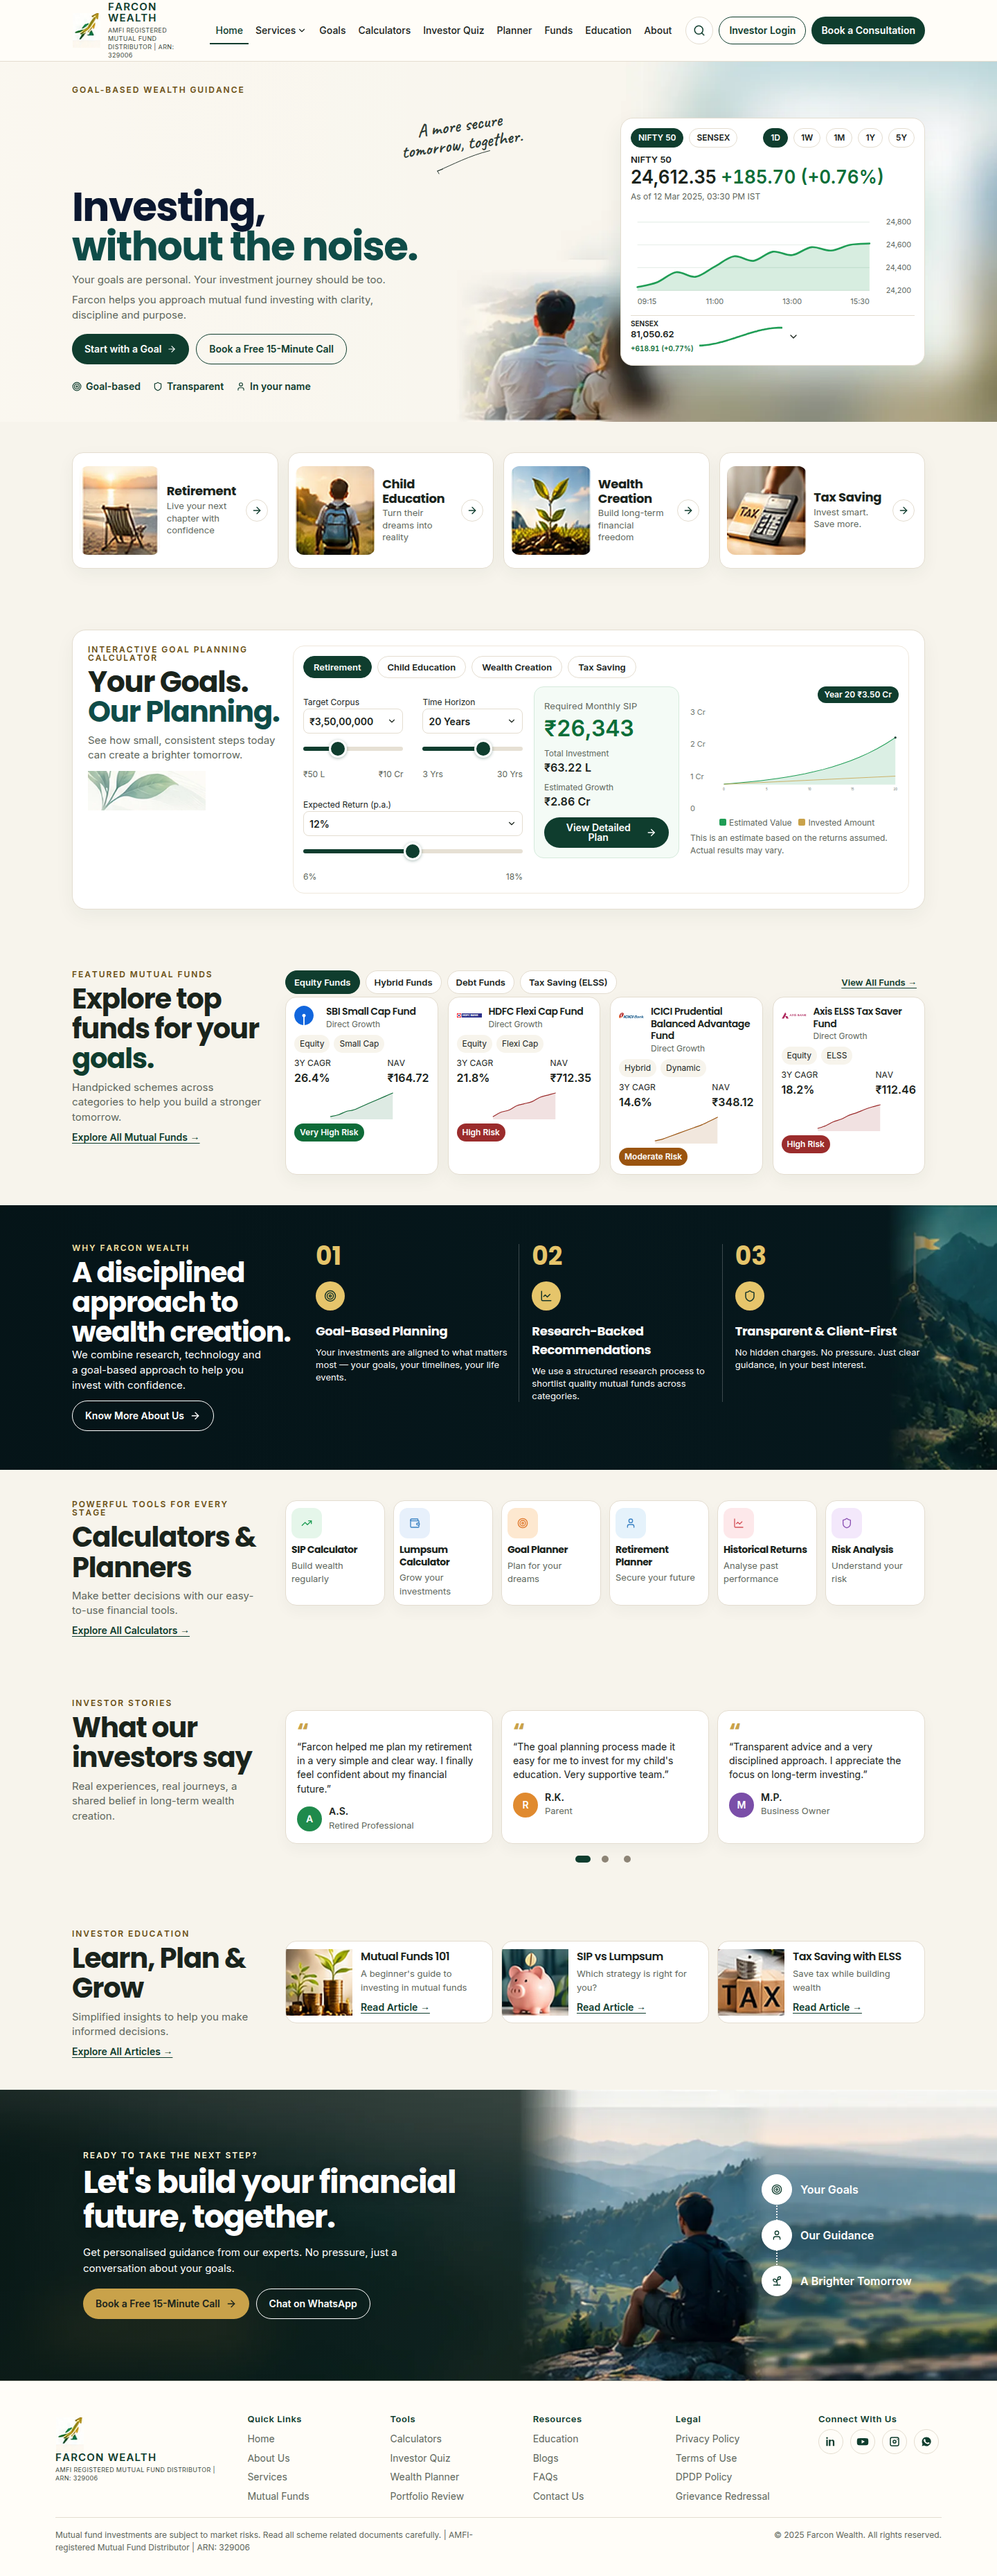
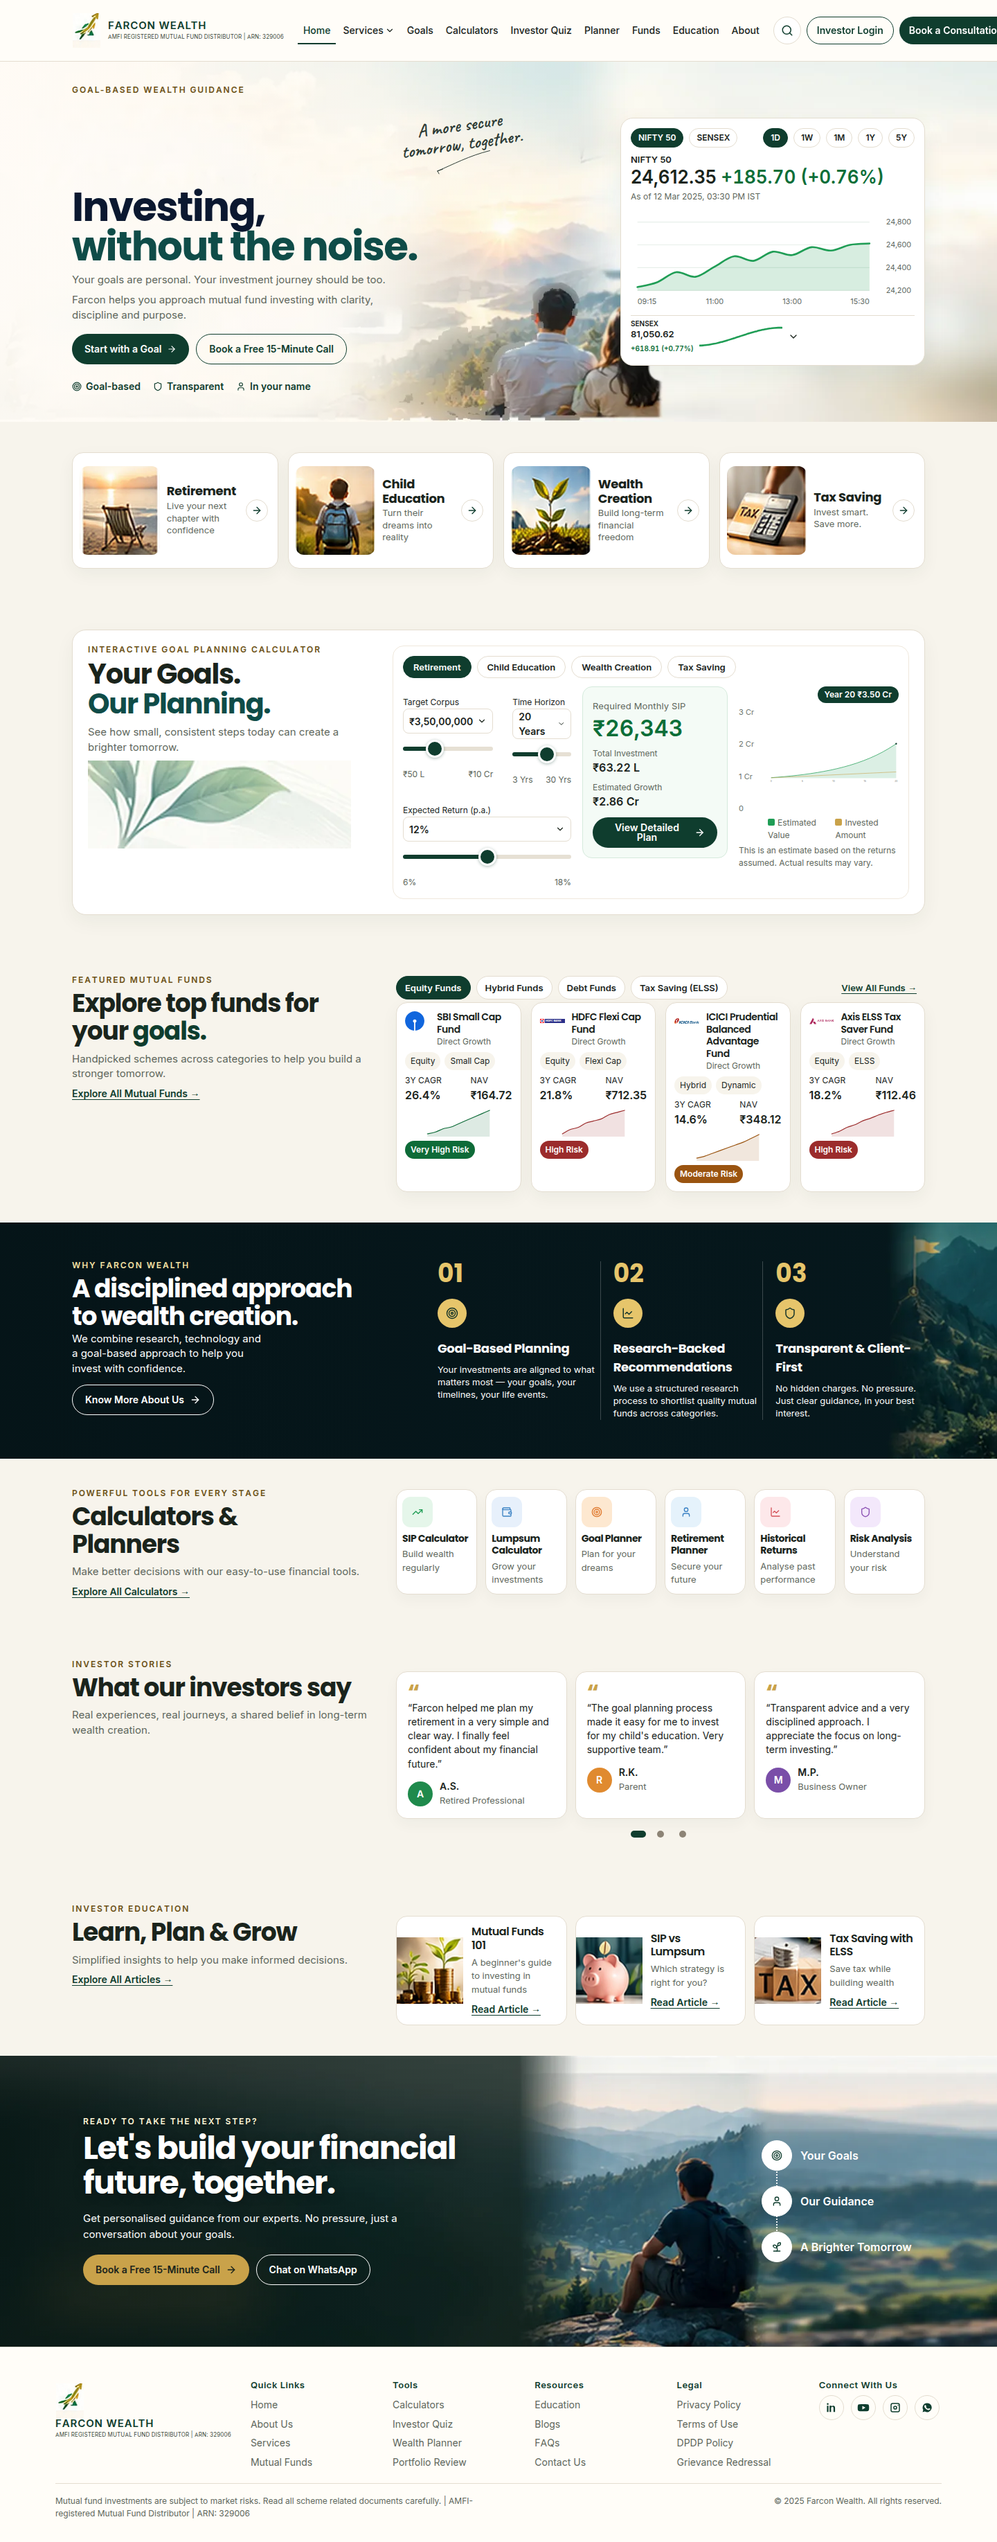
Restore a full-bleed hero and tighten mobile layout.
The mountain photograph now sits behind the headline, section titles wrap to two lines, and smaller screens use a compact menu with swipeable cards.

diff --git a/src/farcon.css b/src/farcon.css
@@ -31,22 +31,24 @@
   display: block;
   font-family: var(--fw-sans);
   font-weight: 700;
-  letter-spacing: 0.08em;
+  letter-spacing: 0.06em;
   font-size: 14px;
   line-height: 1.1;
+  white-space: nowrap;
 }
 .fw-lockup small {
   display: block;
   margin-top: 3px;
   font-size: 8px;
-  letter-spacing: 0.04em;
-  line-height: 1.35;
-  max-width: 280px;
+  letter-spacing: 0.02em;
+  line-height: 1.2;
+  max-width: none;
+  white-space: nowrap;
   text-transform: uppercase;
 }
 .fw-lockup.is-footer img { width: 68px; height: 82px; }
-.fw-lockup.is-footer strong { font-size: 16px; }
-.fw-lockup.is-footer small { font-size: 12px; max-width: 260px; }
+.fw-lockup.is-footer strong { font-size: 16px; white-space: normal; }
+.fw-lockup.is-footer small { font-size: 12px; max-width: 260px; white-space: normal; }
 .fw-header {
   position: sticky;
   top: 0;
@@ -265,11 +267,11 @@
 .hf-hero { position: relative; overflow: hidden; }
 .hf-hero-photo {
   position: absolute; inset: 0; width: 100%; height: 100%;
-  object-fit: cover; object-position: 64% 40%;
+  object-fit: cover; object-position: 58% 58%;
 }
 .hf-hero-scrim {
   position: absolute; inset: 0;
-  background: linear-gradient(180deg, rgba(247,244,236,0.2) 0%, rgba(247,244,236,0.78) 38%, #f7f4ec 72%);
+  background: linear-gradient(90deg, rgba(255,251,246,0.9) 0%, rgba(255,248,238,0.55) 34%, rgba(255,244,226,0.12) 58%, transparent 72%);
 }
 .hf-hero-inner {
   position: relative;
@@ -853,7 +855,7 @@ html, body { overflow-x: clip; }
   .is-home .fw-header-bar { height: 88px; padding: 0 24px; }
   .is-home .fw-lockup img { width: 42px; height: 50px; }
   .is-home .fw-lockup strong { font-size: 15px; }
-  .is-home .fw-lockup small { font-size: 9px; max-width: 280px; }
+  .is-home .fw-lockup small { font-size: 8px; max-width: none; white-space: nowrap; }
   .is-home .fw-nav button { font-size: 14px; padding: 0 8px; min-height: 40px; }
   .is-home .fw-login, .is-home .fw-book { height: 40px; min-height: 40px; font-size: 14px; padding: 0 14px; white-space: nowrap; }
   .is-home .fw-icon-btn { width: 40px; height: 40px; min-width: 40px; min-height: 40px; }
@@ -867,10 +869,10 @@ html, body { overflow-x: clip; }
   .is-home .hf-eye { font-size: 12px; letter-spacing: 0.16em; margin-bottom: 8px; }
   .is-home .hf-btn { min-height: 44px; padding: 0 18px; font-size: 14px; }
   .is-home .hf-lede { font-size: 15px; line-height: 1.45; max-width: 460px; margin: 8px 0 0; }
-  .is-home .hf-split { grid-template-columns: 280px minmax(0, 1fr); gap: 28px; align-items: start; }
-  .is-home .hf-split > :first-child h2 { font-size: 40px; line-height: 1.08; }
+  .is-home .hf-split { grid-template-columns: minmax(380px, 440px) minmax(0, 1fr); gap: 28px; align-items: start; }
+  .is-home .hf-split > :first-child h2 { font-size: 36px; line-height: 1.12; max-width: 440px; }
   .is-home .hf-hero { height: auto; min-height: 520px; }
-  .is-home .hf-hero-scrim { background: linear-gradient(90deg, rgba(255,252,247,0.2) 0%, rgba(255,252,247,0.05) 42%, transparent 58%); }
+  .is-home .hf-hero-scrim { background: linear-gradient(90deg, rgba(255,251,246,0.86) 0%, rgba(255,248,238,0.5) 28%, rgba(255,244,226,0.12) 50%, transparent 66%); }
   .is-home .hf-hero-inner {
     height: auto; min-height: 520px; margin: 0 auto;
     display: grid; grid-template-columns: minmax(0, 1fr) 440px;
@@ -904,12 +906,13 @@ html, body { overflow-x: clip; }
   .is-home .hf-goal p { font-size: 13px; line-height: 1.35; }
   .is-home .hf-arrow { width: 32px; height: 32px; }
   .is-home .hf-plan {
-    grid-template-columns: 280px minmax(0, 1fr); gap: 16px; padding: 22px;
+    grid-template-columns: minmax(360px, 420px) minmax(0, 1fr); gap: 20px; padding: 22px;
     align-items: stretch; border-radius: 20px;
   }
-  .is-home .hf-plan h2 { font-size: 42px; line-height: 1.02; }
+  .is-home .hf-plan h2 { font-size: 40px; line-height: 1.08; max-width: 420px; }
   .is-home .hf-plan h2 em { font-style: normal; color: #0f4c48; }
-  .is-home .hf-plant { width: 170px; height: auto; margin-top: 12px; object-fit: contain; object-position: left bottom; }
+  .is-home .hf-plant { width: 380px; max-width: 100%; height: auto; margin-top: 8px; object-fit: contain; object-position: left bottom; }
+  .is-home [data-section="tools"] > .hf-wrap > :first-child h2 { max-width: 240px; }
   .is-home .hf-plan-panel { background: #fff; border: 1px solid #efe8dc; border-radius: 16px; padding: 14px; }
   .is-home .hf-plan-panel .hf-tabs button { min-height: 32px; height: 32px; font-size: 13px; }
   .is-home .hf-plan-grid { grid-template-columns: minmax(0, 1fr) minmax(168px, 210px) minmax(220px, 0.95fr); gap: 16px; align-items: start; }
@@ -940,10 +943,10 @@ html, body { overflow-x: clip; }
   .is-home .hf-why::after { background: linear-gradient(90deg, rgba(4,16,18,0.45) 0%, rgba(4,16,18,0.2) 55%, rgba(4,16,18,0.08) 100%); }
   .is-home .hf-flag { display: none; }
   .is-home .hf-why-inner {
-    display: grid; grid-template-columns: 320px minmax(0, 1fr); gap: 32px;
+    display: grid; grid-template-columns: minmax(440px, 500px) minmax(0, 1fr); gap: 28px;
     align-items: start; padding: 8px 24px; min-height: 0; margin: 0 auto;
   }
-  .is-home .hf-why h2 { font-size: 40px; line-height: 1.08; max-width: 320px; }
+  .is-home .hf-why h2 { font-size: 36px; line-height: 1.12; max-width: 500px; }
   .is-home .hf-why-lead { font-size: 15px; line-height: 1.45; }
   .is-home .hf-num { font-size: 36px; font-style: normal; font-weight: 700; color: #e6c56b; margin: 0 0 10px; }
   .is-home .hf-cols { display: grid; grid-template-columns: repeat(3, minmax(0, 1fr)); gap: 0; }
@@ -972,7 +975,7 @@ html, body { overflow-x: clip; }
   .is-home .hf-article h2 { font-size: 16px; }
   .is-home .hf-article p { font-size: 13px; }
   .is-home .hf-textlink { font-size: 14px; }
-  .is-home .hf-cta { min-height: 420px; }
+  .is-home .hf-cta { min-height: 420px; margin: 0; }
   .is-home .hf-cta .bg { object-position: center center; }
   .is-home .hf-cta-scrim { background: linear-gradient(90deg, rgba(8,18,16,0.45) 0%, rgba(8,18,16,0.12) 42%, transparent 62%); }
   .is-home .hf-cta-inner {
@@ -987,28 +990,71 @@ html, body { overflow-x: clip; }
   .is-home .hf-result .hf-btn { white-space: normal; }
 }
 
-@media (max-width: 899px) {
-  .is-home .hf-market > svg { max-height: 132px; }
-  .is-home .fw-fab { bottom: 12px; }
+@media (max-width: 1099px) {
+  .fw-nav, .fw-login, .fw-book { display: none; }
+  .fw-menu-btn { display: inline-flex; }
+  .fw-header { position: sticky; top: 0; }
+  .fw-header-bar { min-height: 64px; height: auto; padding: 8px 12px; flex-wrap: nowrap; }
+  .fw-lockup:not(.is-footer) small { max-width: none; font-size: 7px; letter-spacing: 0; }
+  .fw-lockup:not(.is-footer) strong { font-size: 13px; }
+  .fw-footer-grid { grid-template-columns: 1fr 1fr; gap: 24px 20px; }
+  .fw-footer button, .fw-footer a { min-height: 44px; font-size: 14px; }
+  .hf-lede, .hf-goal p, .hf-why-lead, .hf-tool p, .hf-story p, .hf-article p, .hf-cols p, .pg .lede {
+    font-size: 14px;
+  }
+  .hf-btn, .fw-menu-btn, .fw-icon-btn { min-height: 44px; }
+  .hf-select { min-height: 44px; font-size: 16px; }
+  .hf-fund-row, .is-home .hf-fund-row {
+    display: flex;
+    overflow-x: auto;
+    scroll-snap-type: x mandatory;
+    gap: 12px;
+    padding-bottom: 6px;
+  }
+  .hf-fund, .is-home .hf-fund { flex: 0 0 min(280px, 82vw); scroll-snap-align: start; }
+  .hf-stories, .is-home .hf-stories {
+    display: flex;
+    overflow-x: auto;
+    scroll-snap-type: x mandatory;
+    gap: 12px;
+  }
+  .hf-story, .is-home .hf-story { flex: 0 0 86%; scroll-snap-align: start; }
+  .hf-side { display: none; }
+  .hf-dots, .is-home .hf-dots { display: flex; }
+  .is-home .hf-market > svg { max-height: 140px; }
 }
 
 @media (min-width: 768px) {
   .is-home .fw-fab { display: none; }
 }
 
-@media (max-width: 699px) {
-  .is-home .hf-goals { grid-template-columns: 1fr; gap: 12px; }
-  .is-home .hf-goal {
-    display: grid;
-    grid-template-columns: 108px minmax(0, 1fr) 32px;
-    align-items: center;
+@media (max-width: 700px) {
+  .hf-goals, .is-home .hf-goals {
+    display: flex;
     gap: 12px;
+    overflow-x: auto;
+    scroll-snap-type: x mandatory;
+    padding-bottom: 4px;
+  }
+  .hf-goal, .is-home .hf-goal {
+    flex: 0 0 88%;
+    scroll-snap-align: start;
+    display: grid;
+    grid-template-columns: 42% minmax(0, 1fr) 36px;
+    align-items: center;
+    gap: 10px;
     min-height: 0;
   }
-  .is-home .hf-goal img { width: 108px; height: 84px; min-height: 0; }
+  .hf-goal img, .is-home .hf-goal img { width: 100%; height: 96px; min-height: 96px; }
   .is-home .hf-why-inner { display: grid; gap: 28px; }
   .is-home .hf-cols { grid-template-columns: 1fr; }
   .is-home .hf-path li { align-items: flex-start; }
+  .hf-cta-row, .is-home .hf-cta-row { flex-direction: column; align-items: stretch; }
+  .hf-cta-row .hf-btn { width: 100%; }
+  .fw-footer-grid { grid-template-columns: 1fr; }
+  .fw-lockup:not(.is-footer) small { font-size: 7px; letter-spacing: 0; }
+  .fw-lockup:not(.is-footer) strong { font-size: 12px; }
+  .fw-lockup:not(.is-footer) img { width: 36px; height: 44px; }
 }
 
 @media (min-width: 700px) and (max-width: 1099px) {
@@ -1033,19 +1079,15 @@ html, body { overflow-x: clip; }
 
 .is-home .fw-fab { display: none; }
 
-@media (max-width: 899px) {
-  .is-home .hf-side { display: none; }
-  .is-home .hf-carousel { display: block; }
-  .is-home .hf-stories { display: grid; grid-template-columns: 1fr; overflow: visible; }
-  .is-home .hf-story { flex: none; }
-  .is-home .hf-dots { display: none; }
+@media (min-width: 701px) and (max-width: 1099px) {
+  .hf-goals, .is-home .hf-goals { grid-template-columns: repeat(2, minmax(0, 1fr)); }
 }
 
 @media (min-width: 1100px) and (max-width: 1279px) {
   .is-home .fw-nav button { font-size: 12px; padding: 0 5px; }
   .is-home .fw-login, .is-home .fw-book { font-size: 12px; padding: 0 10px; }
   .is-home .fw-lockup strong { font-size: 13px; letter-spacing: 0.04em; }
-  .is-home .fw-lockup small { font-size: 8px; max-width: 150px; }
+  .is-home .fw-lockup small { font-size: 8px; max-width: none; }
   .is-home .hf-goals { gap: 12px; }
   .is-home .hf .hf-goal h2 { font-size: 16px; }
 }

diff --git a/src/components/sections/HomeView.tsx b/src/components/sections/HomeView.tsx
@@ -261,7 +261,7 @@ export const HomeView: React.FC<HomeViewProps> = ({ navigate, onOpenConsultation
   return (
     <div className="hf">
       <section className="hf-hero" data-section="hero">
-        <img className="hf-hero-photo" src="/images/home/hero.webp?v=12" alt="A family sitting together, looking toward misty green mountains" width={1618} height={580} fetchPriority="high" />
+        <img className="hf-hero-photo" src="/images/home/hero.webp?v=13" alt="A family sitting together, looking toward misty green mountains" width={1618} height={580} fetchPriority="high" />
         <div className="hf-hero-scrim" />
         <div className="hf-hero-inner">
           <div className="hf-hero-copy">
